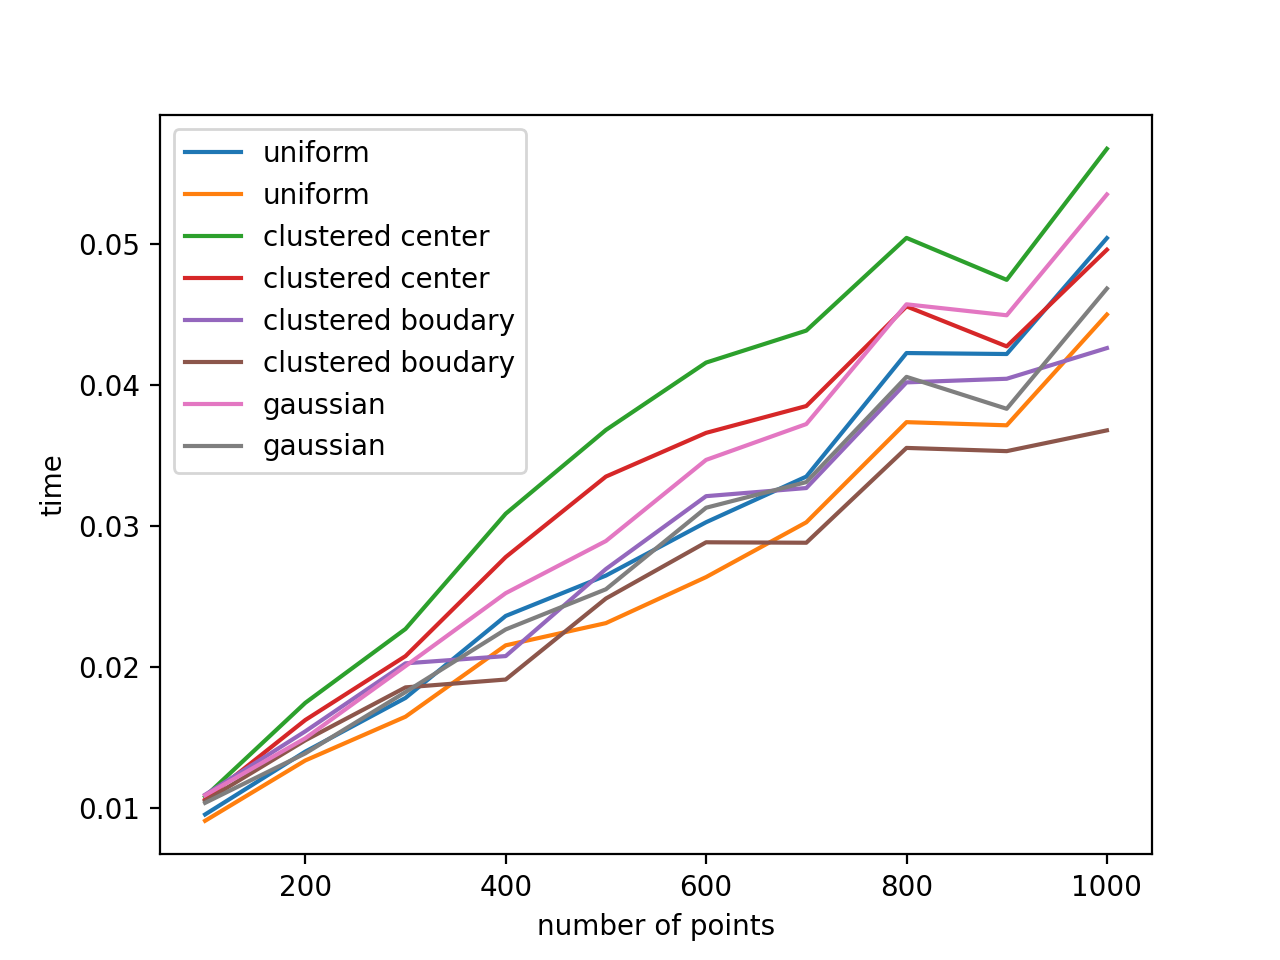
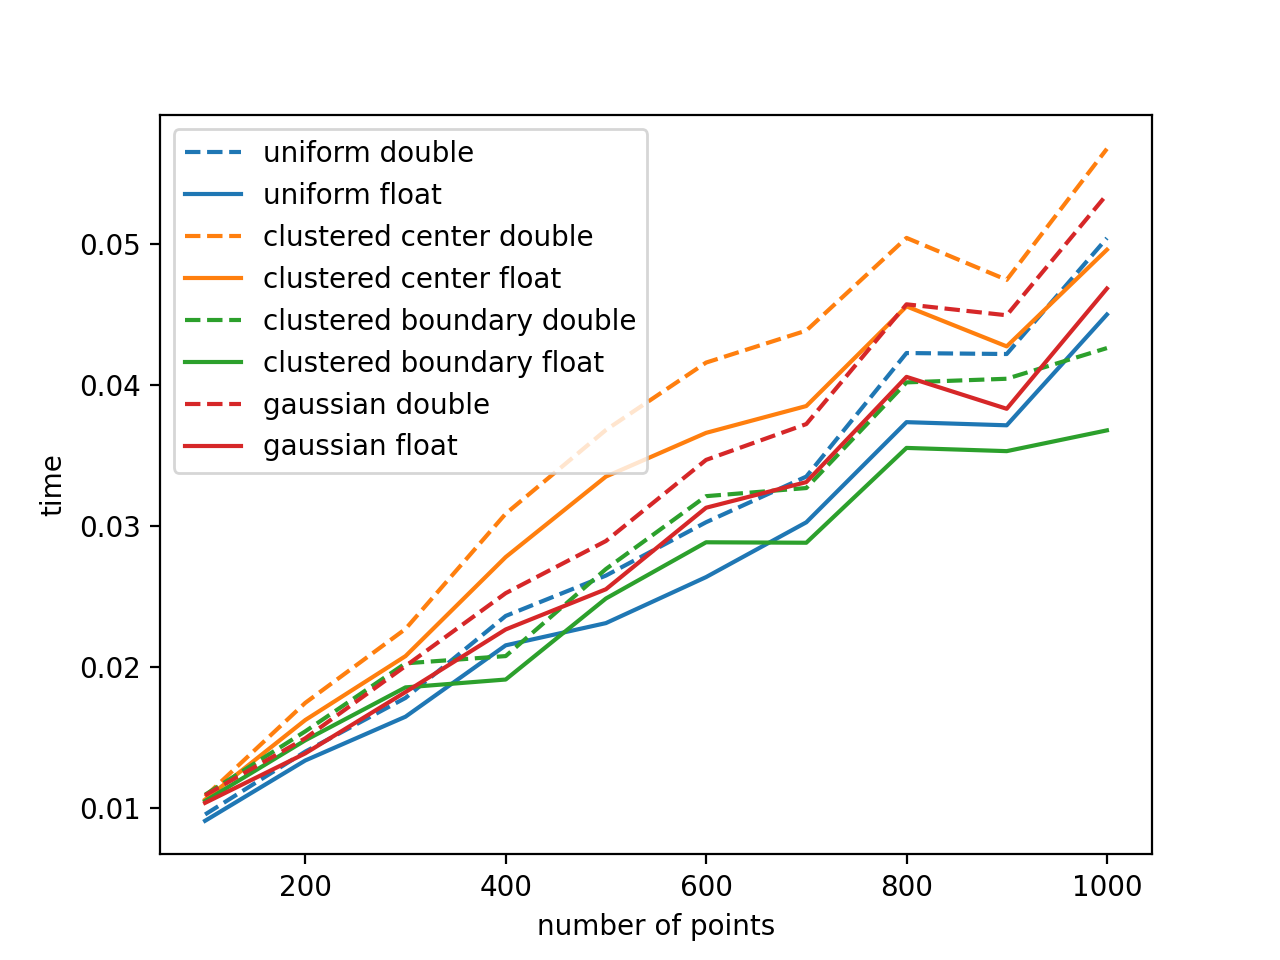
cop plot changes

diff --git a/main/plotting/floatVsDouble/plot.py b/main/plotting/floatVsDouble/plot.py
@@ -5,7 +5,8 @@ import pandas as pd
 dfFloat = pd.read_csv("./dataFloat.csv")
 dfDouble = pd.read_csv("./dataDouble.csv")
 
-dist_names = ["uniform", "clustered center", "clustered boudary", "gaussian"]
+colors = ["tab:blue", "tab:orange", "tab:green", "tab:red"]
+dist_names = ["uniform", "clustered center", "clustered boundary", "gaussian"]
 for i, dist in enumerate(dist_names):
 	dfDouble_distrib = dfDouble[ dfDouble["distribution"] == i ].groupby('npts')['totalRuntime'].mean().reset_index()
 	dfFloat_distrib = dfFloat[ dfFloat["distribution"] == i ].groupby('npts')['totalRuntime'].mean().reset_index()
@@ -16,8 +17,8 @@ for i, dist in enumerate(dist_names):
 	timeDouble = np.array(dfDouble_distrib["totalRuntime"])
 	timeFloat = np.array(dfFloat_distrib["totalRuntime"])
 
-	plt.plot(nptsDouble, timeDouble, label=dist)
-	plt.plot(nptsFloat,  timeFloat, label=dist)
+	plt.plot(nptsDouble, timeDouble, label=f"{dist} double", linestyle="--", color=colors[i])
+	plt.plot(nptsFloat,  timeFloat, label=f"{dist} float"  , linestyle="-" , color=colors[i])
 
 plt.xlabel("number of points")
 plt.ylabel("time")

diff --git a/main/plotting/timeDistrib/plot.py b/main/plotting/timeDistrib/plot.py
@@ -14,7 +14,7 @@ avg_df = df.groupby("distribution")[metrics].mean()
 normalized = avg_df.div(avg_df.sum(axis=1), axis=0)
 
 # Labels and styling
-distributions = ["uniform square", "uniform disk"]#, "gaussian"]
+dist_names = ["uniform", "clustered center", "clustered boundary", "gaussian"]
 colors = ['forestgreen', 'gold', 'cornflowerblue', 'salmon']
 hatches = ['..', '//', '\\\\', 'xx']
 labels = ["prepForInsert", "insert", "flip", "updatePts"]
@@ -38,4 +38,3 @@ plt.legend(loc="upper right", ncol=2)
 plt.tight_layout()
 
 plt.savefig("timeDistrib.png", dpi=200)
-#plt.show()

diff --git a/main/plotting/.temp/projshpere.py b/main/plotting/.temp/projshpere.py
@@ -1,0 +1,28 @@
+import numpy as np
+import matplotlib.pyplot as plt
+
+x = []
+y = []
+
+r = 1; 
+n = 10000
+
+for _ in range(0, n):
+#	theta = np.random.uniform() * np.pi
+#	phi	  = np.random.uniform() *2*np.pi
+	
+#	x.append(r*np.sin(theta)*np.cos(phi))
+#	y.append(r*np.sin(theta)*np.sin(phi))
+
+	r = np.random.uniform()
+	#r = r**(1/4)
+	r = np.sqrt(np.sqrt(r))
+	theta = np.random.uniform() * 2 * np.pi
+
+	x.append(r*np.cos(theta))
+	y.append(r*np.sin(theta))
+
+plt.scatter(x, y, s=0.5)
+plt.axis("square")
+plt.show()
+

diff --git a/main/plotting/serial_nptsVsTime/plot.py b/main/plotting/serial_nptsVsTime/plot.py
@@ -6,8 +6,8 @@ df = pd.read_csv("./data.csv")
 
 avg_df = df.groupby('seed')['totalRuntime'].mean().reset_index()
 
-#dist_names = ["uniform square", "uniform disk", "gaussian"]
-dist_names = ["uniform square", "uniform disk"]
+colors = ["tab:blue", "tab:orange", "tab:green", "tab:red"]
+dist_names = ["uniform", "clustered center", "clustered boundary", "gaussian"]
 for i, dist in enumerate(dist_names):
 	df_distrib = df[ df["distribution"] == i ].groupby('npts')['totalRuntime'].mean().reset_index()
 	

diff --git a/main/plotting/blockSizeVsTime/plot.py b/main/plotting/blockSizeVsTime/plot.py
@@ -6,7 +6,8 @@ df = pd.read_csv("./data.csv")
 
 avg_df = df.groupby('ntpb')['totalRuntime'].mean().reset_index()
 
-dist_names = ["uniform", "clustered center", "clustered boudary", "gaussian"]
+colors = ["tab:blue", "tab:orange", "tab:green", "tab:red"]
+dist_names = ["uniform", "clustered center", "clustered boundary", "gaussian"]
 for i, dist in enumerate(dist_names):
 	df_distrib = df[ df["distribution"] == i ].groupby('ntpb')['totalRuntime'].mean().reset_index()
 	
